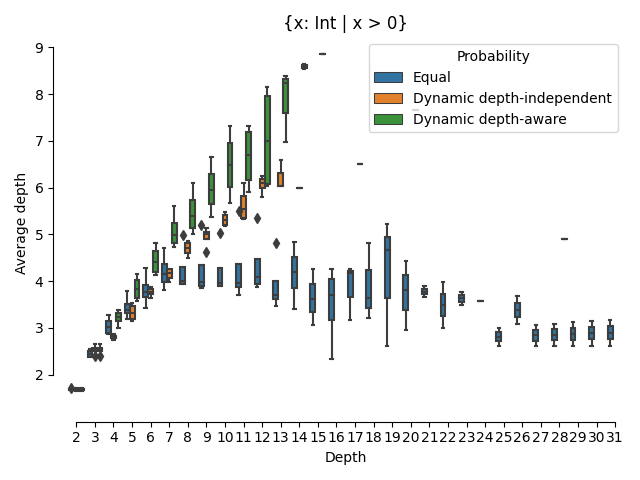
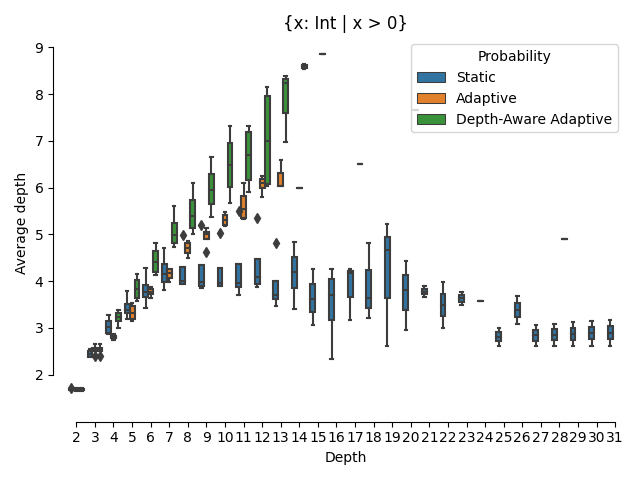
Improved plotting + disable semanticfilter

Changed region(s): [[0.5625, 0.0938, 0.9688, 0.2812]]

diff --git a/experiments/plotting.py b/experiments/plotting.py
@@ -23,9 +23,9 @@ def boxplot(df, ttype, outputpath, x_col, y_col):
         y=y_col,
         hue="Probability",
         hue_order=[
-            "Equal",
-            "Dynamic depth-independent",
-            "Dynamic depth-aware",
+            "Static",
+            "Adaptive",
+            "Depth-Aware Adaptive",
         ],
     )
 
@@ -56,7 +56,8 @@ def plot_ttype(df, ttype, outpath):
 
     # Doing different combinations of columns
     combinations = itertools.product(
-        ["Depth"], ["Sucesses", "Time", "Entropy", "Tree distance", "Average depth"]
+        ["Depth"],
+        ["Successes", "Time (s)", "Entropy", "Tree distance", "Average depth"],
     )
 
     # Lets generate one plot for each type of plot in seaborn
@@ -74,7 +75,7 @@ def plot_csv(csv_path):
         "Type",
         "Depth",
         "Seed",
-        "Sucesses",
+        "Successes",
         "Time",
         "Entropy",
         "Tree distance",
@@ -86,15 +87,16 @@ def plot_csv(csv_path):
 
     # Preprocessing
     df["Depth"] = df["Depth"].apply(lambda x: x + 1)
+    df["Time (s)"] = df["Time"] / df["Successes"]
     "ChoiceManager", "DynamicProbManager", "DepthAwareManager"
 
     def rename(name: str) -> str:
         if name == "ChoiceManager":
-            return "Equal"
+            return "Static"
         elif name == "DynamicProbManager":
-            return "Dynamic depth-independent"
+            return "Adaptive"
         else:
-            return "Dynamic depth-aware"
+            return "Depth-Aware Adaptive"
 
     df["Probability"] = df["Manager"].apply(rename)
 

diff --git a/aeon/synthesis/term_synthesis.py b/aeon/synthesis/term_synthesis.py
@@ -193,6 +193,9 @@ def steps_necessary_to_close(ctx: TypingContext, ty: Type):
     return d
 
 
+NOFILTER = True
+
+
 def synth_term(
     man: ChoiceManager,
     r: RandomSource,
@@ -224,15 +227,17 @@ def synth_term(
     def go_if():
         return synth_if(man, r, ctx, ty, d)
 
-    if b == t_int or b == t_bool:
+    if b == t_int or b == t_bool or NOFILTER:
         candidate_generators.append(go_lit)
 
-    if any_var_of_type(ctx, ty):
+    if any_var_of_type(ctx, ty) or NOFILTER:
         candidate_generators.append(go_var)
 
-    if d > steps_necessary_to_close(ctx, ty) + 1 and not anf:
+    if not anf and (d > 0 and NOFILTER) or (d > steps_necessary_to_close(ctx, ty) + 1):
         candidate_generators.append(go_app)
-    if d > 0 and not anf and (not avoid_eta or go_var not in candidate_generators):
+    if (d > 0 and NOFILTER) or (
+        d > 0 and not anf and (not avoid_eta or go_var not in candidate_generators)
+    ):
         if isinstance(ty, AbstractionType):
             candidate_generators.append(go_abs)
         candidate_generators.append(go_let)
